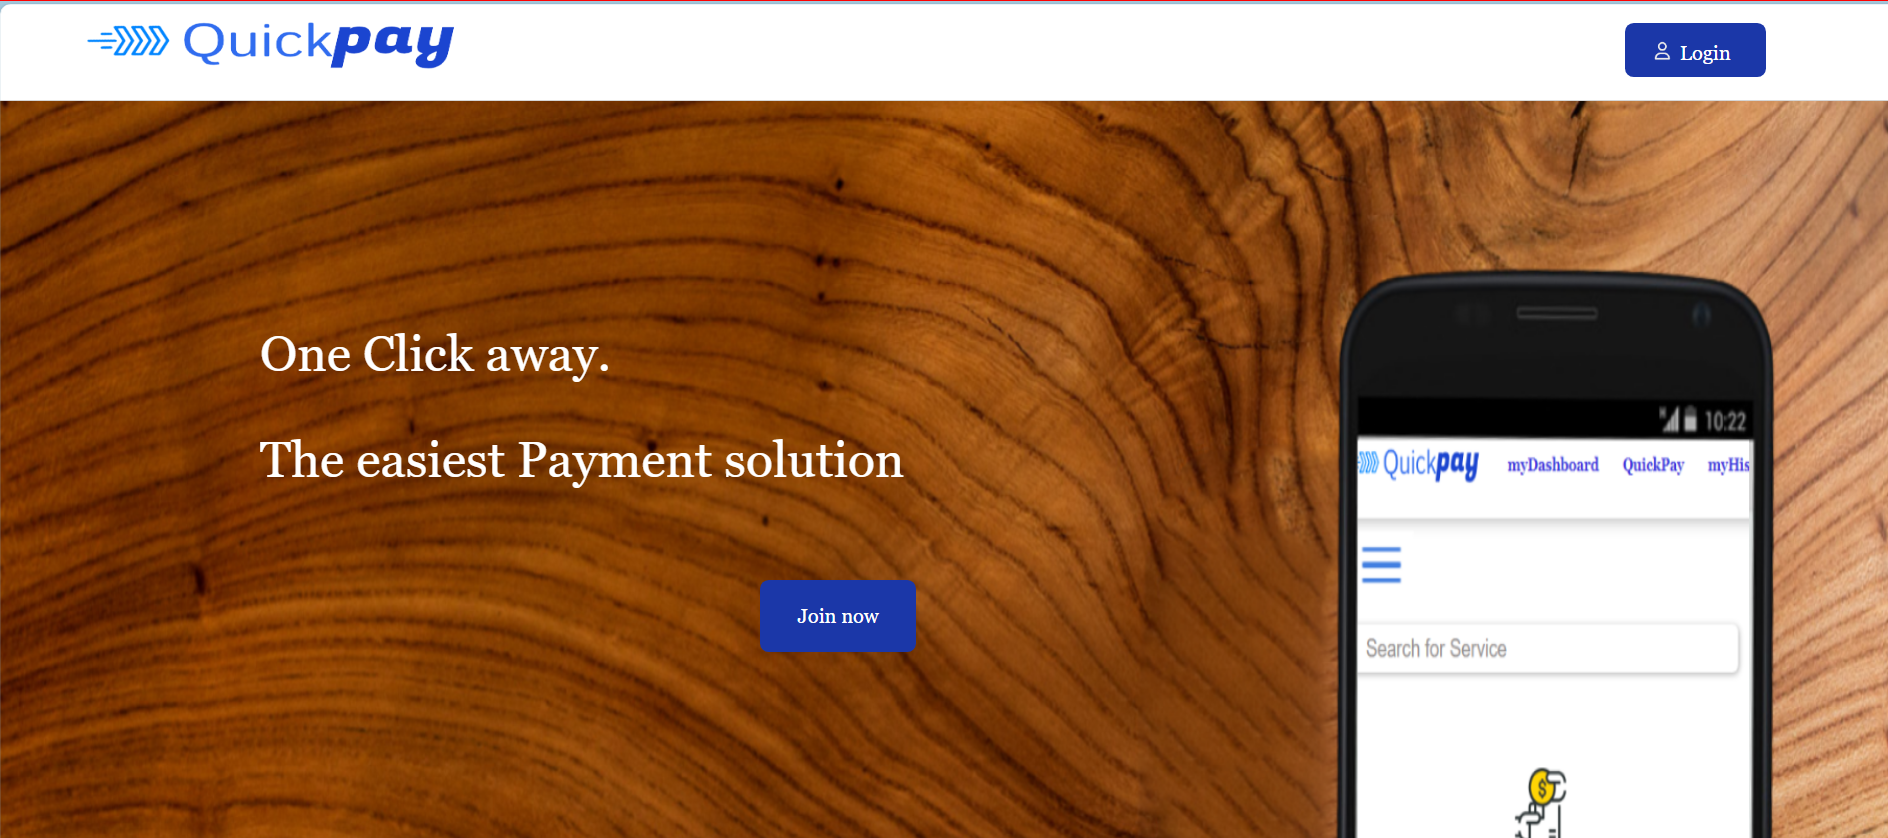
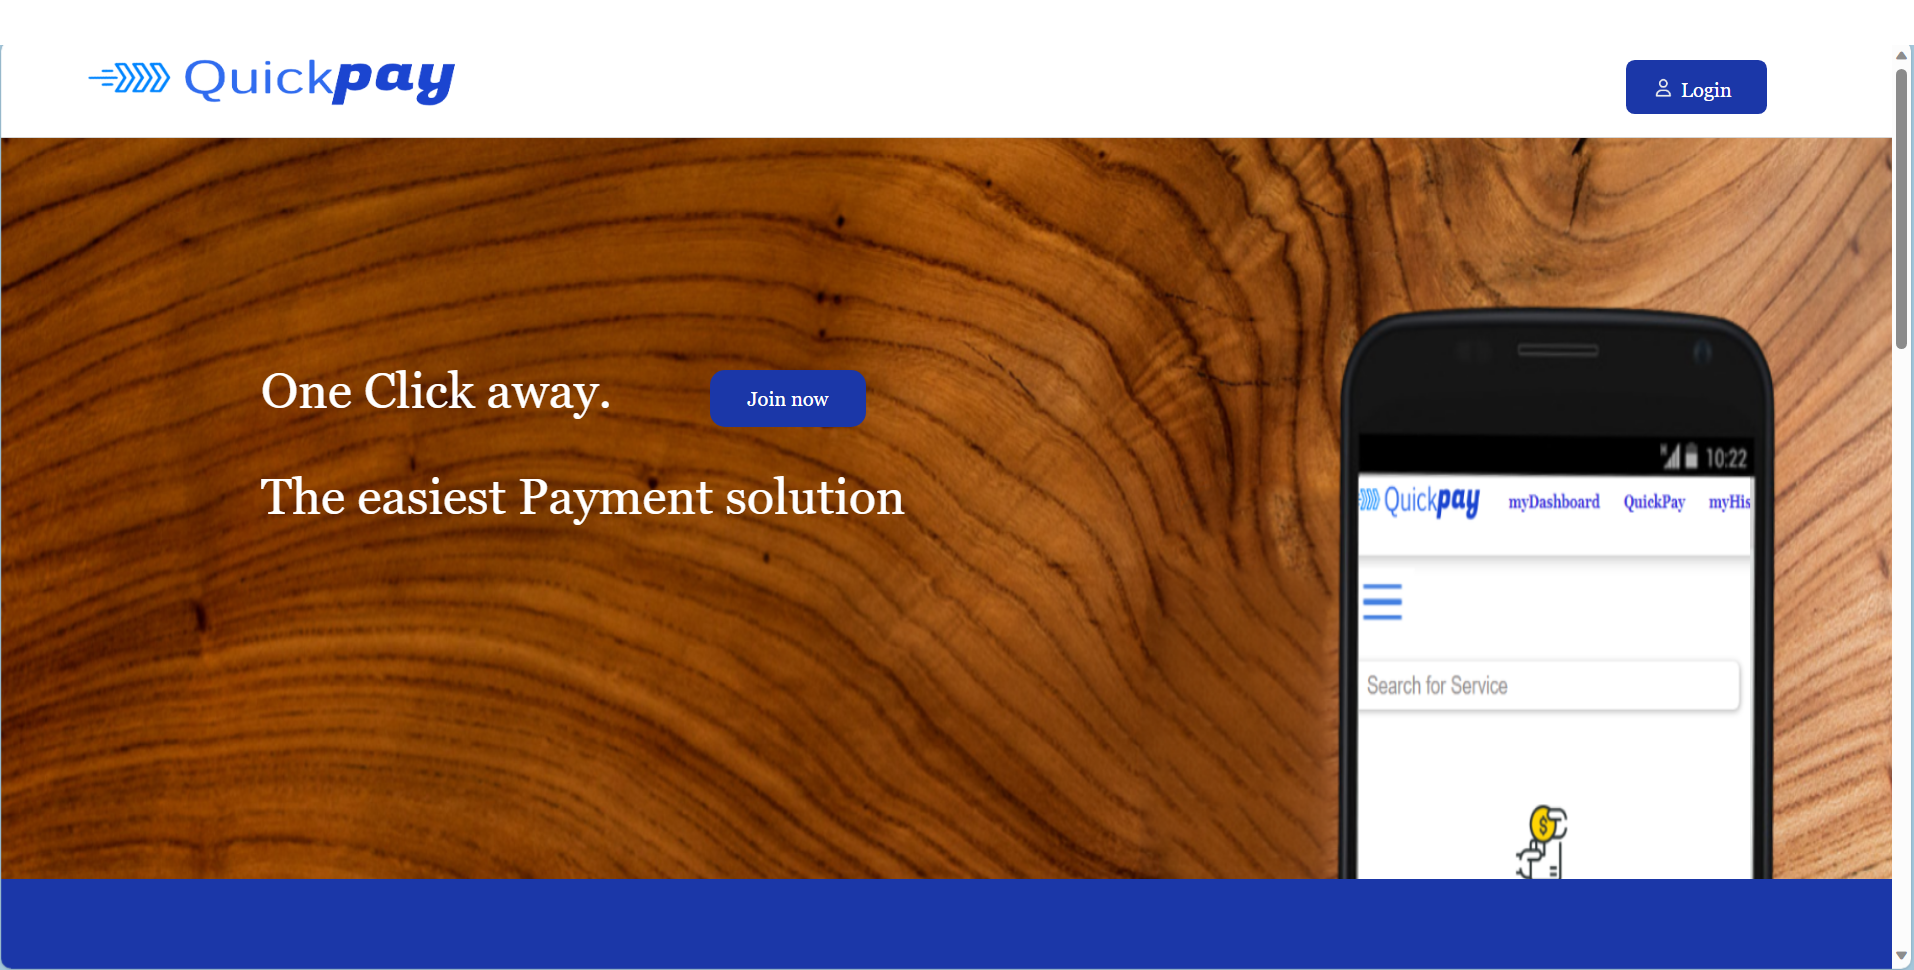
.

diff --git a/src/main/resources/client-side/css/home.css b/src/main/resources/client-side/css/home.css
@@ -3,14 +3,14 @@
 }
 
 .woodenCover a{
-    padding: 20px 30px;
+    padding: 14px 30px;
     text-decoration: none;
     background-color: #1b37a8;
     color: white;
     position: relative;
-    bottom: 200px;
-    left: 600px;
-    border-radius: 7px;
+    bottom: 403px;
+    left: 559px;
+    border-radius: 12px;
 }
 .woodenCover img{
     width: 1570px;
